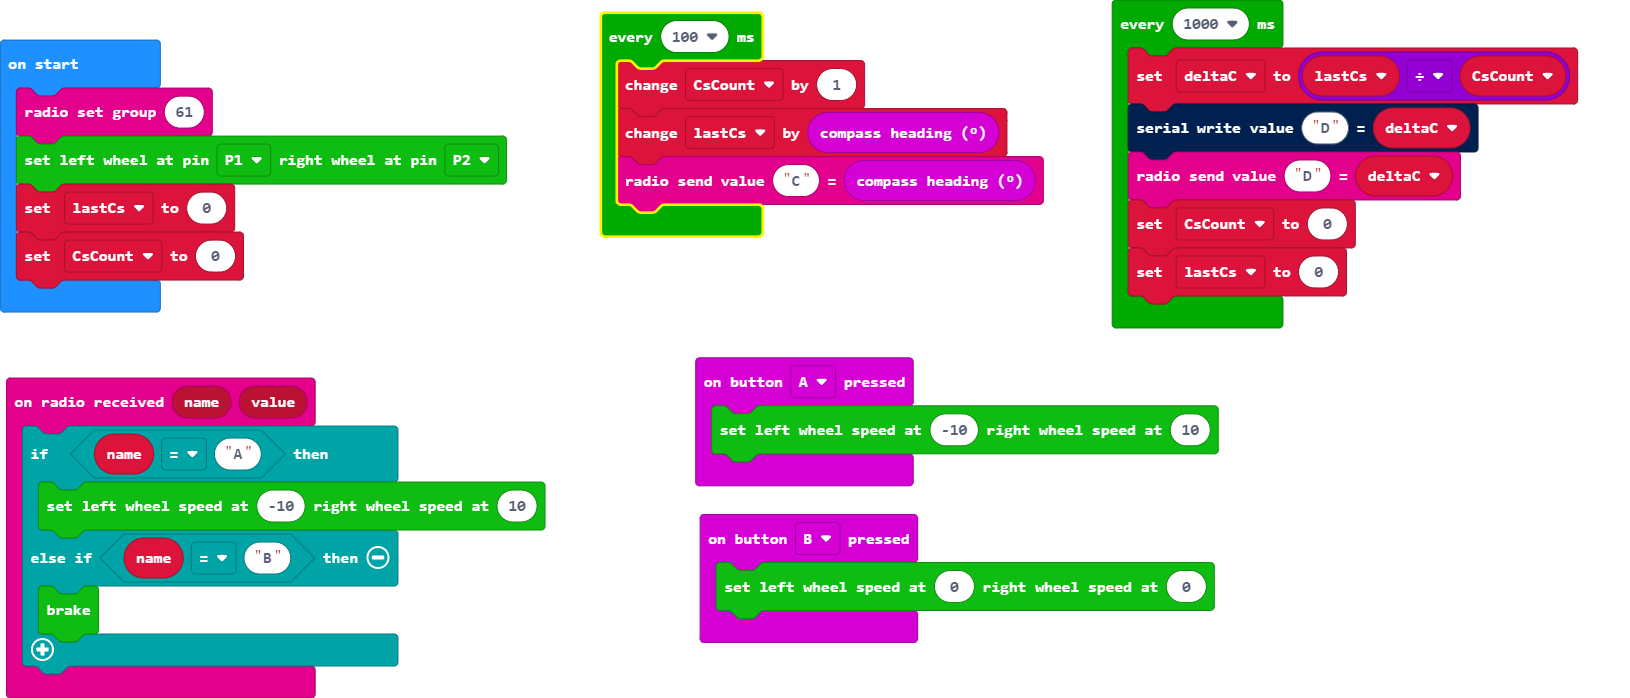
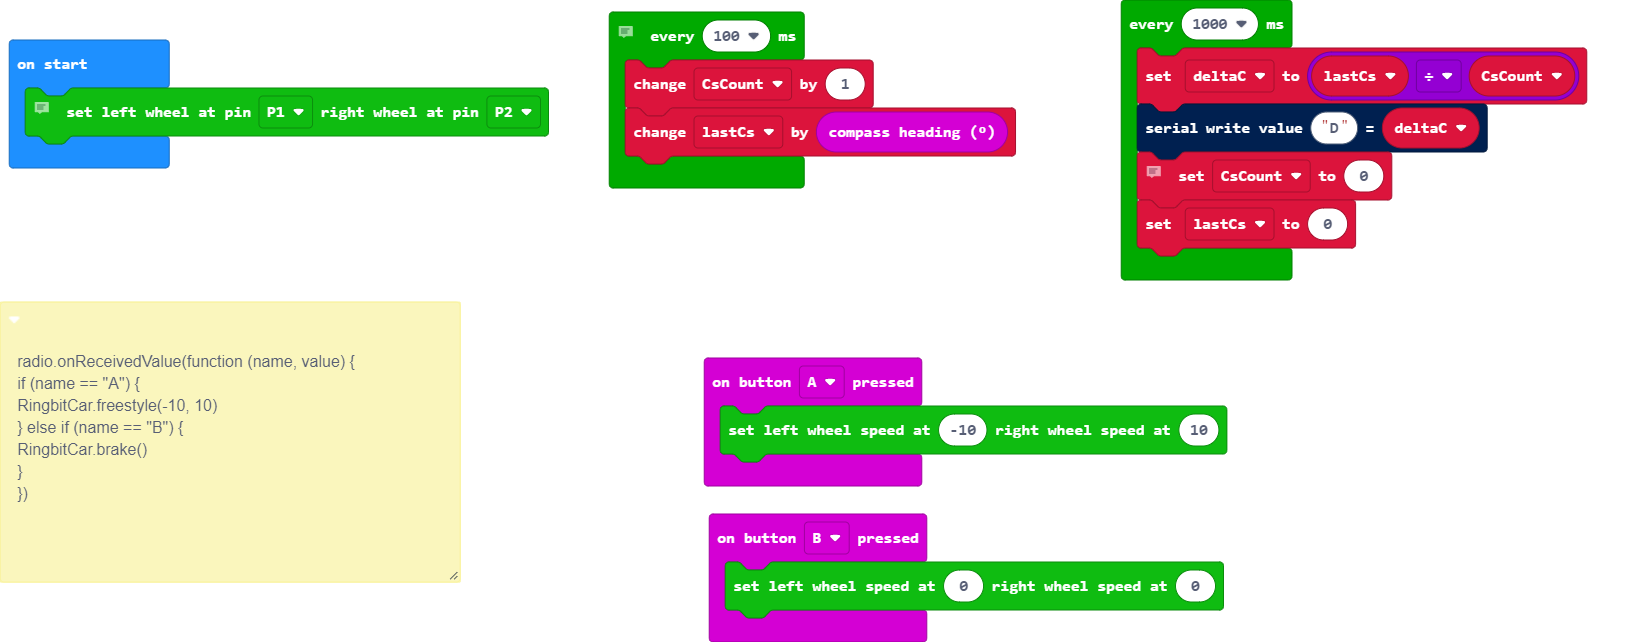
initial

diff --git a/main.ts b/main.ts
@@ -1,30 +1,38 @@
+/**
+ * radio.onReceivedValue(function (name, value) {
+ * 
+ * if (name == "A") {
+ * 
+ * RingbitCar.freestyle(-10, 10)
+ * 
+ * } else if (name == "B") {
+ * 
+ * RingbitCar.brake()
+ * 
+ * }
+ * 
+ * })
+ */
 input.onButtonPressed(Button.A, function () {
     RingbitCar.freestyle(-10, 10)
 })
 input.onButtonPressed(Button.B, function () {
     RingbitCar.freestyle(0, 0)
 })
-radio.onReceivedValue(function (name, value) {
-    if (name == "A") {
-        RingbitCar.freestyle(-10, 10)
-    } else if (name == "B") {
-        RingbitCar.brake()
-    }
-})
-let deltaC = 0
-radio.setGroup(61)
-RingbitCar.init_wheel(AnalogPin.P1, AnalogPin.P2)
-let lastCs = 0
 let CsCount = 0
+let lastCs = 0
+let deltaC = 0
+// radio.setGroup(61)
+RingbitCar.init_wheel(AnalogPin.P1, AnalogPin.P2)
 loops.everyInterval(1000, function () {
     deltaC = lastCs / CsCount
     serial.writeValue("D", deltaC)
-    radio.sendValue("D", deltaC)
+    // radio.sendValue("D", deltaC)
     CsCount = 0
     lastCs = 0
 })
+// radio.sendValue("C", input.compassHeading())
 loops.everyInterval(100, function () {
     CsCount += 1
     lastCs += input.compassHeading()
-    radio.sendValue("C", input.compassHeading())
 })
